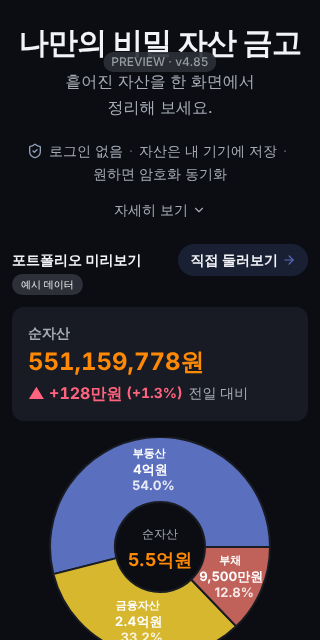
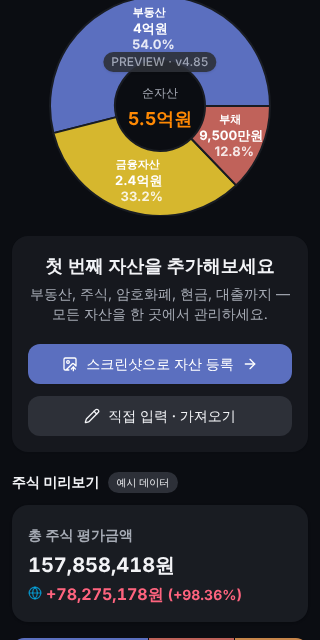
memory: 4.85 머지 기록

diff --git a/DECISIONS.md b/DECISIONS.md
@@ -408,3 +408,4 @@
 - 2026-11-12 01:05 KST v4.84(#163·#164) PR #165 squash 머지 14aaea7 (COO 위임, risk:medium). 판독 경계 2026-11-12 01:05 KST. 후속 후보: 평단 칩-눈금 간격(R1), 라이트 로딩 박스 문구-윤곽선(R3), 허브 2px, us-stock-master NAS 편중, formatPrice 중복.
 - 2026-11-12 D 선정(cto): 4.85 = #166 첫 등록 준비·정돈 묶음(COO 위임, 11/15 목표) 선행 머지 → 4.xx #167 웰컴에서 바로 첫 자산 등록(대표 승인 대상, 4.85 머지 후 개발). 보류: 홈 TIP 보유 필터·새 소식 과밀, 루트 SSR 소개. 탈락: NAS 편중, '오늘' 칩(#138 수정됨). 운영 규칙: 새 소식은 릴리스당 체감 1~2줄, 수정은 1줄로 묶기(C82 보강). PC 새 소식 X 종결.
 - 2026-11-12 #167 방향 합의(business-pm·planner-designer): 범위 ① 모바일 웹 웰컴 CTA 설치 단계 삭제 ② 직접 입력 5개 자산군(숨김 마운트된 입력 창 ADD_TRIGGER_EVENTS 재사용). iOS 보조 문구 미추가(#78 복원 코드 경로 존재). 주 지표 분자: 웰컴·스크린샷 등록+직접 입력+가져오기(동기화 연결 제외). 4.85 머지 +7일 기준선 후 머지, 11/26 이전 목표, 대표 승인(10-29 '설치 주 버튼 유지' 번복).
+- 2026-11-12 03:14 KST v4.85(#166) PR #168 squash 머지 19bb0df (COO 위임). 판독 경계 2026-11-12 03:14 KST: #167 기준선 시작(+7일), GA '웰컴·<버튼>' 6종·'첫 자산 저장·*' 분리 시작(4.86 판독 시 '자산 저장·*'+'첫 자산 저장·*' 합산, 체험은 '웰컴·체험'). 후속: 320 배당 표 '분기' 배지 겹침, '앱 가이드 보기' 제목-설명 불일치, 시세 전부 실패 시 수익 칸 스켈레톤 잔존.

diff --git a/issues/4.85-166-first-save-prep/4.85-decision-brief.md b/issues/4.85-166-first-save-prep/4.85-decision-brief.md
@@ -1,4 +1,4 @@
-COO 판정: 수정 필요 1건(R1, 1줄) → development 되돌림. 반영 후 증분 qa·ui 확인되면 PASS, 위임 머지(대표 확인 불필요)
+COO 판정: PASS — R1 반영(61a44f5)·qa 증분 PASS·UI 승인 @61a44f5 충족, 위임 머지(대표 확인 불필요). (초안: 수정 필요 1건 R1 → 해소)
 
 # 4.85 decision-brief (초안, 미확정) — 첫 등록 준비·정돈 묶음 (#166, PR #168)
 작성 cto/COO 2026-11-12. 기준 커밋 428dbd1(qa 최종 PASS·Vercel success). R1 반영 커밋으로 확정 시 기준 커밋을 갱신한다.

diff --git a/issues/4.xx-167-welcome-register-first/4.xx-direction.md b/issues/4.xx-167-welcome-register-first/4.xx-direction.md
@@ -136,3 +136,4 @@
 - **남는 쟁점**: 없음. (planner의 "동기화 연결도 분자에 넣어도 됨"은 선택 사항이라 사업 판단으로 제외로 정했다. planner가 반대하면 참고 지표 병기로 이미 수치는 남는다.)
 
 business-pm 합의함
+- 4.85 머지 시각(판독 경계): 2026-11-12 03:14 KST
